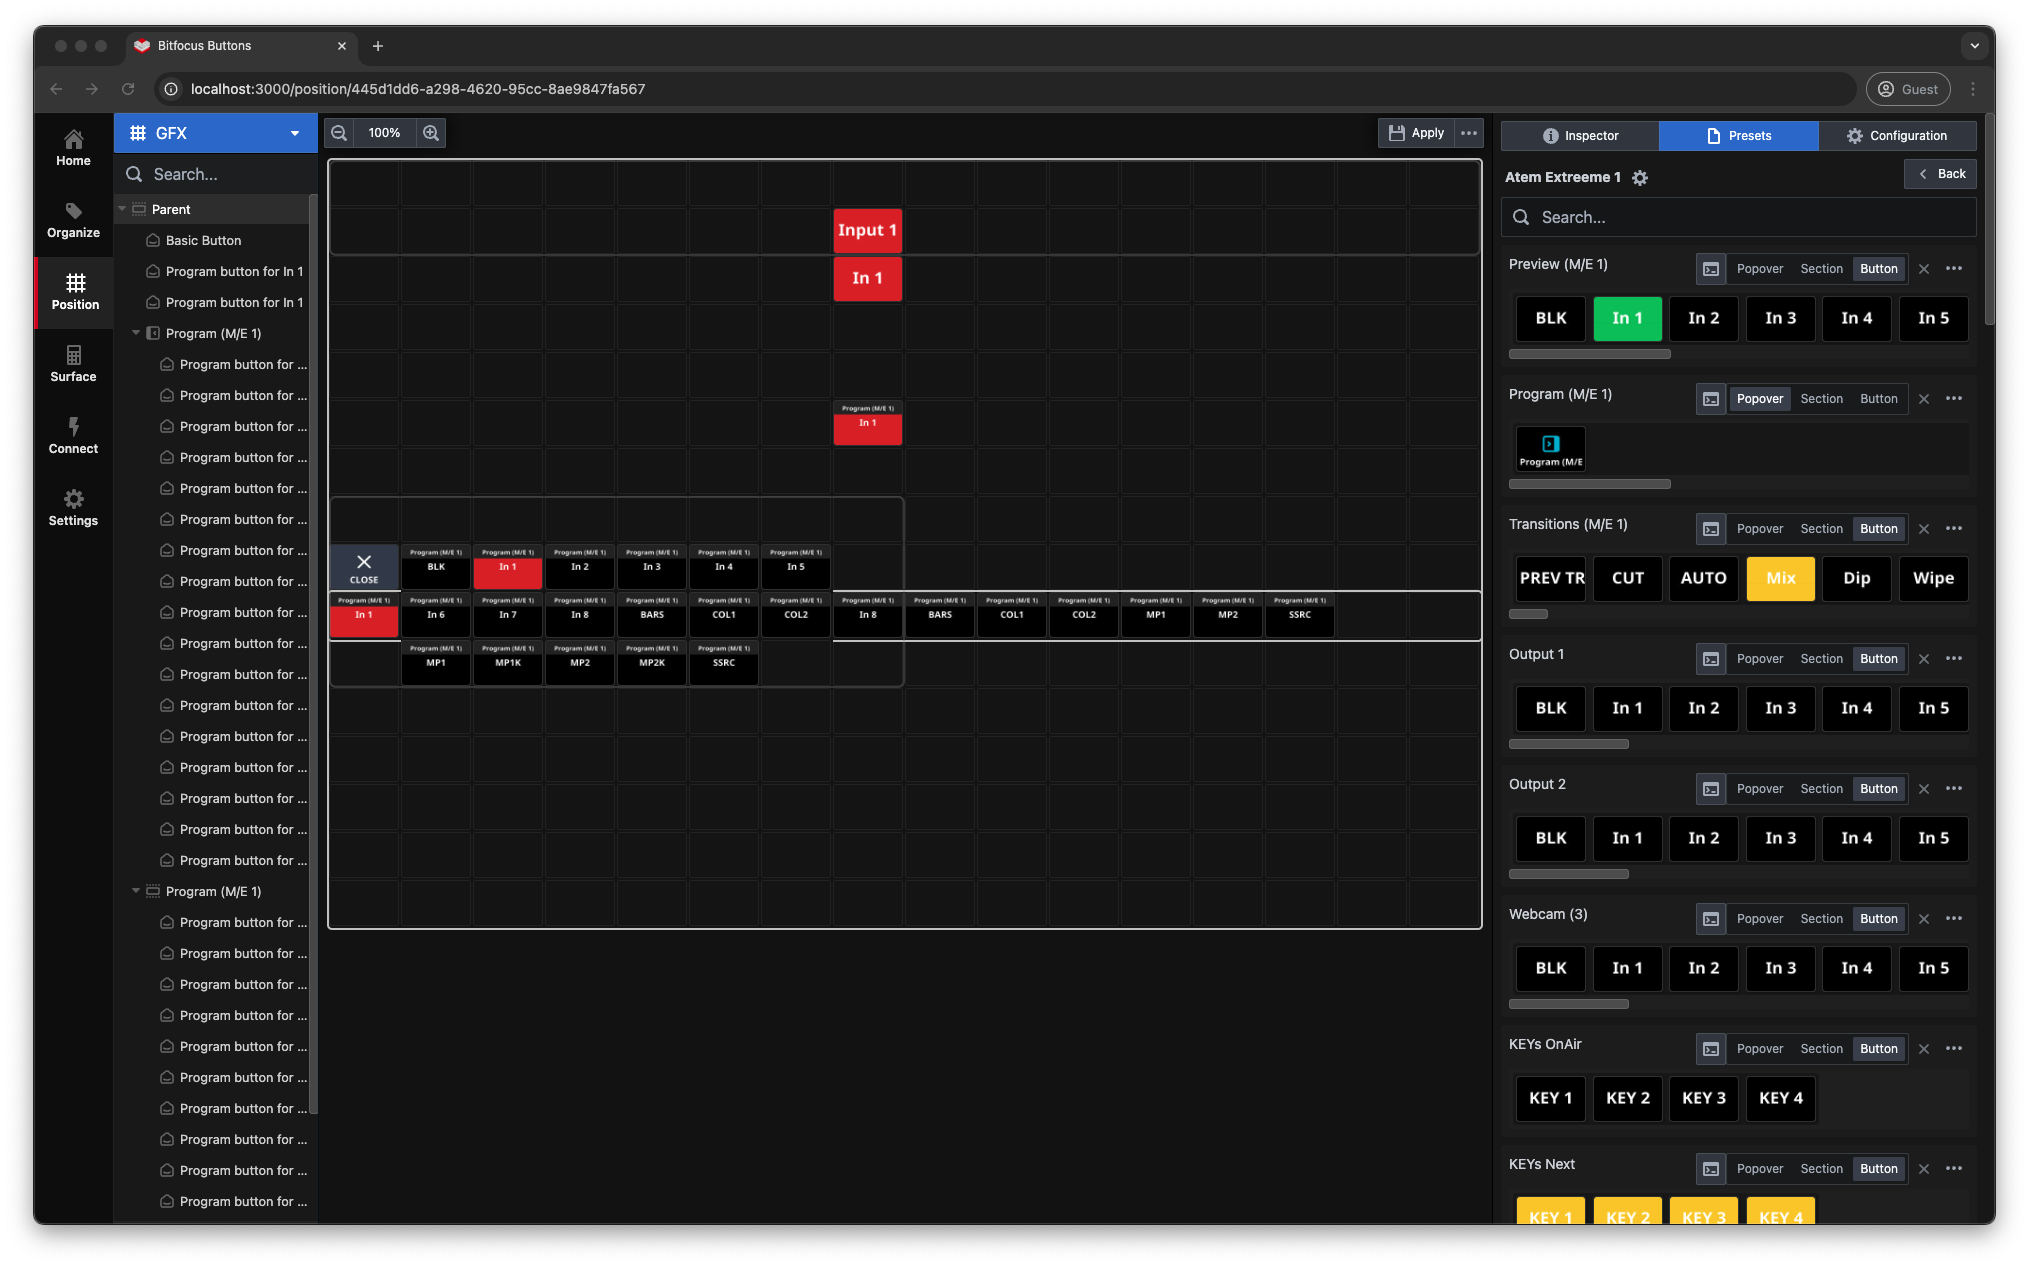
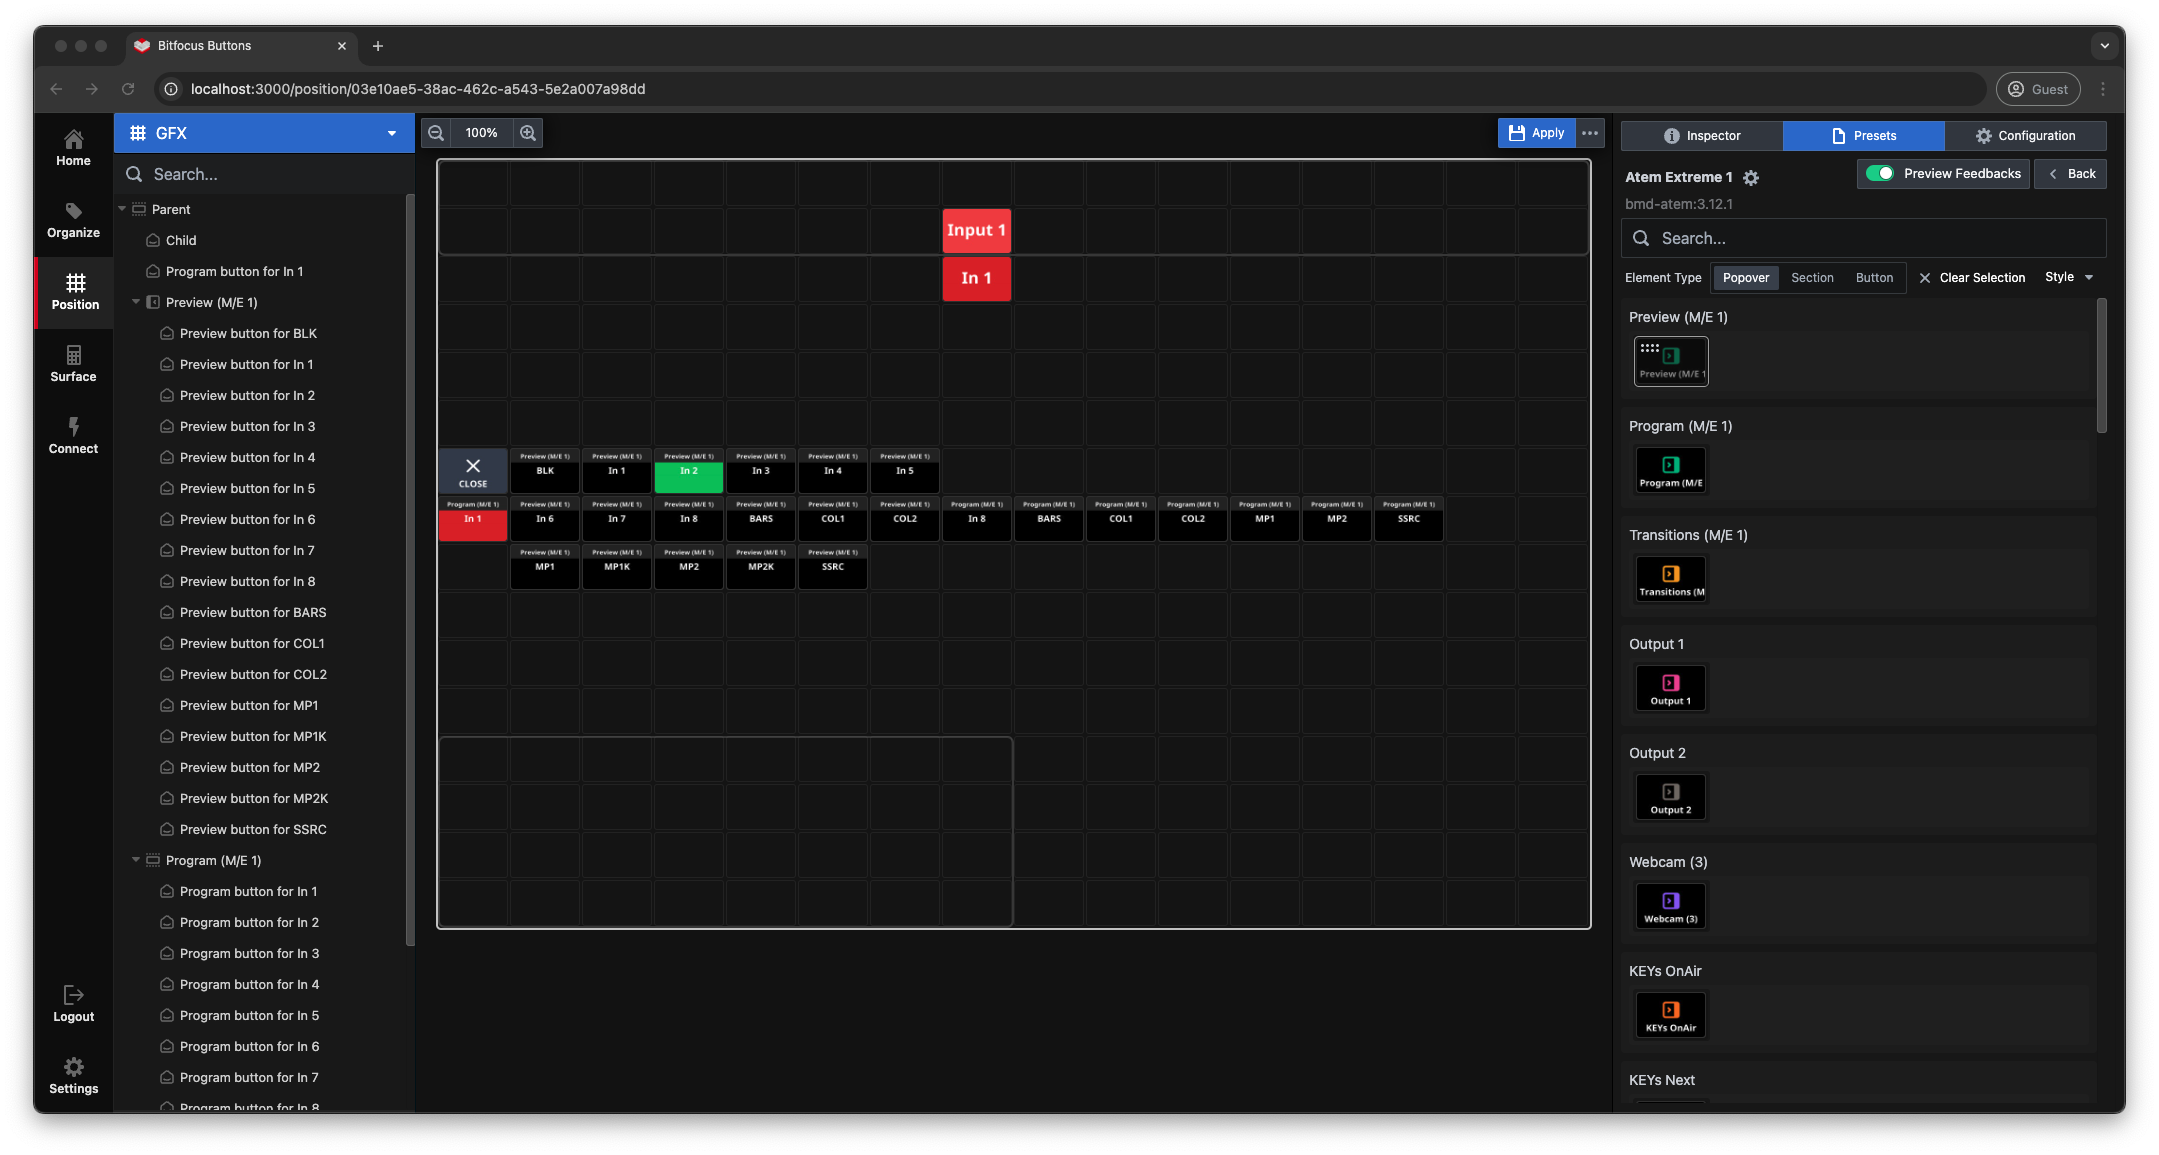
Uppdating images for new design

Changed region(s): [[0.0, 0.0, 0.9936, 0.9662], [0.4657, 0.7169, 0.4968, 0.7481]]

diff --git a/docs/3_positions/3_presets.md b/docs/3_positions/3_presets.md
@@ -3,9 +3,9 @@
 
 Select the **Presets** tab in the right pane of the window, and you will be presented with a menu of any connections you have that has **Presets** in the module. **Presets** are pre-made **Buttons** that the author of the module has included to make adding complete **Buttons** faster and easier. If we select the Atem Extreme 1 in the menu we will be presented with the options below.
 
-![Preset Atem](<images/presets/preset_2 .png> 'Preset Atem')
+![Preset Atem](<images/presets/preset_2.png> 'Preset Atem')
 
-The colors shown here are actual **Feedback** colors, so they reflect the status of the connected Atem in this case. If we grab the red *Program(M/E 1)* **Button** and drag it on to the **Canvas**. We have essentially created the same **Button** as in the last section with one "drag and drop"
+There is an option on the top to preview feedbacks, the colors shown are actual **Feedback** colors, so they reflect the status of the connected Atem in this case. If we grab the red *Program(M/E 1)* **Button** and drag it on to the **Canvas**. We have essentially created the same **Button** as in the last section with one "drag and drop"
 
 ![Preset with Button](images/presets/preset_3.png 'Preset with Button')
 
@@ -13,7 +13,7 @@ Notice that there are a few options above the **Buttons**.
 
 ![Preset closeup](images/presets/preset_closeup.png 'Preset closeup')
 
-We can start with the **...** menu
+We can start with the **Style** menu
 
 ![Preset Style](images/presets/preset_closeup_2.png 'Preset style')
 
@@ -31,13 +31,15 @@ When you try to grab it you will notice that the whole row gets selected, and th
 ![Preset section on canvas](images/presets/preset_section_on_canvas.png 'Preset section on canvas')
 
 Notice the **...** **Button** on the end of the **Section** it indicates that the section extends beyond the **Canvas** and you can push that button to reveal the remaining **Buttons**
-You can edit the section freely after you have dragged it on to the Canvas let say we don't need the *BLK*, *MP1K* and *MP2K* **Buttons**. Just select them one by one and delete them, be careful that you actually select the **Button** and not the whole section.
+You can edit the section freely after you have dragged it on to the Canvas let say we don't need the *BLK*, *MP1K* and *MP2K* **Buttons**. Just select them one by one and delete them, be careful that you actually select the **Button** and not the whole section. Or you can delete the buttons in the tree view, by *CMD/CTRL + Clicking* on the labels and then *Right-Clicking* to bring up the context menu.
+
+![Tree-pane](images/presets/preset_tree.png)
 
 Now let's have a look at the last option **Popover**
 
 ![Preset Popover](images/presets/Preset_popover.png 'Preset Popover')
 
-You will notice that there's only one **Button** here, let's drag it on to the **Canvas** and push it.
+You will notice that there's only one **Button** here, let's drag it on to the **Canvas** and *push* it.
 
 ![Preset popover on Canvas](images/presets/preset_popover_on_canvas.png 'Preset popover on canvas')
 

diff --git a/docs/3_positions/1_position.md b/docs/3_positions/1_position.md
@@ -15,7 +15,7 @@ The **Position** editor window has 3 panes the left which is the Navigation tree
 ![Inspector](images/position/inspector.png 'inspector')
 
 The **Inspector** will show the grid size of 16W and 16H let's leave it at that for now, but it can be changed at any time.
-Let's first go to the configuration tab
+Let's first go to the **configuration** tab
 
 ![Configuration](images/position/configuration_1.png 'Configuration')
 
